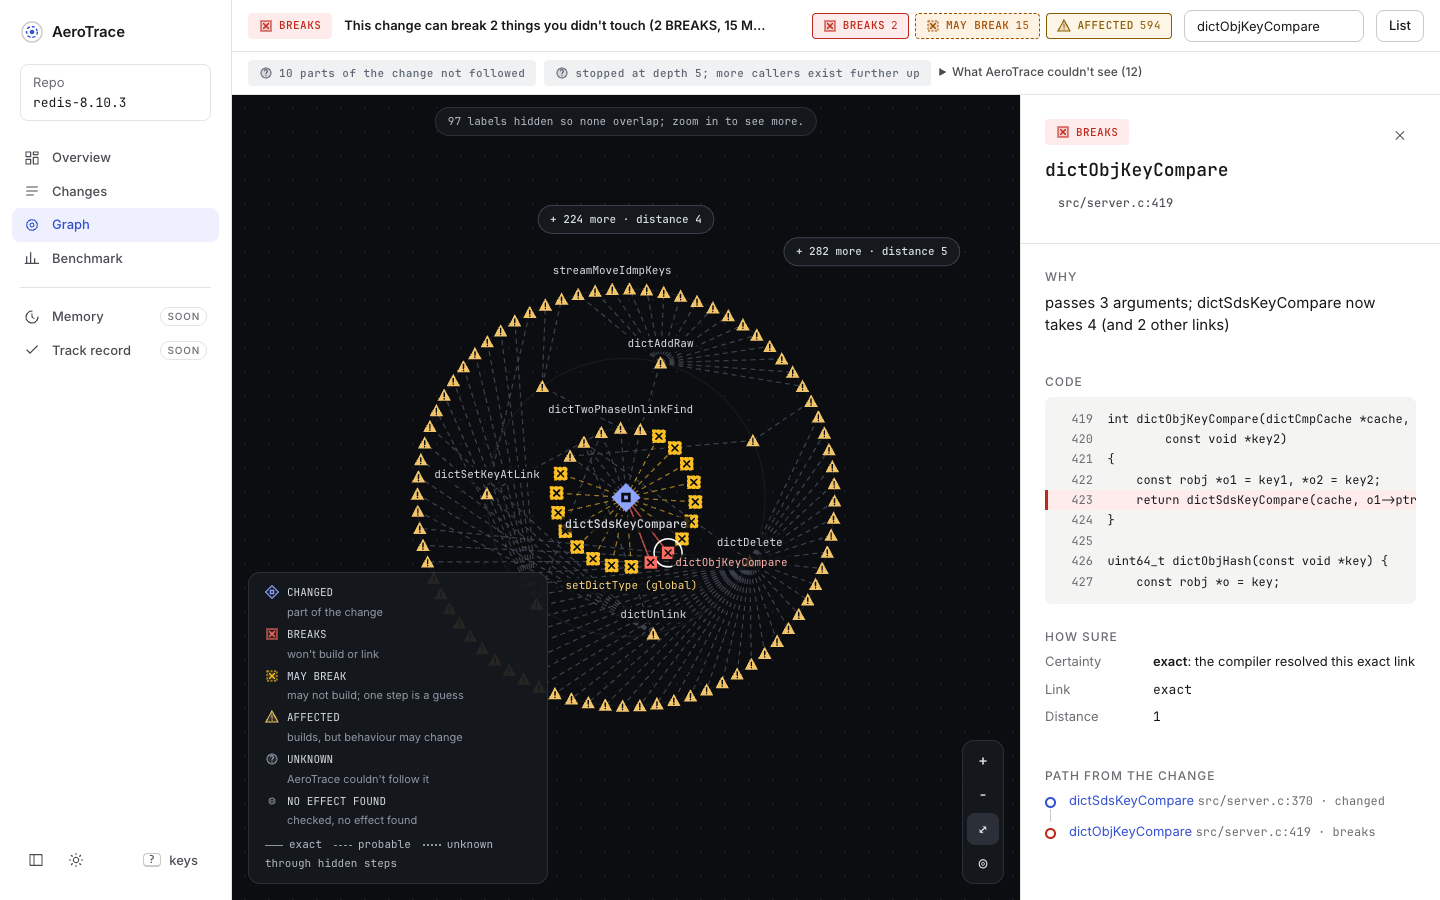
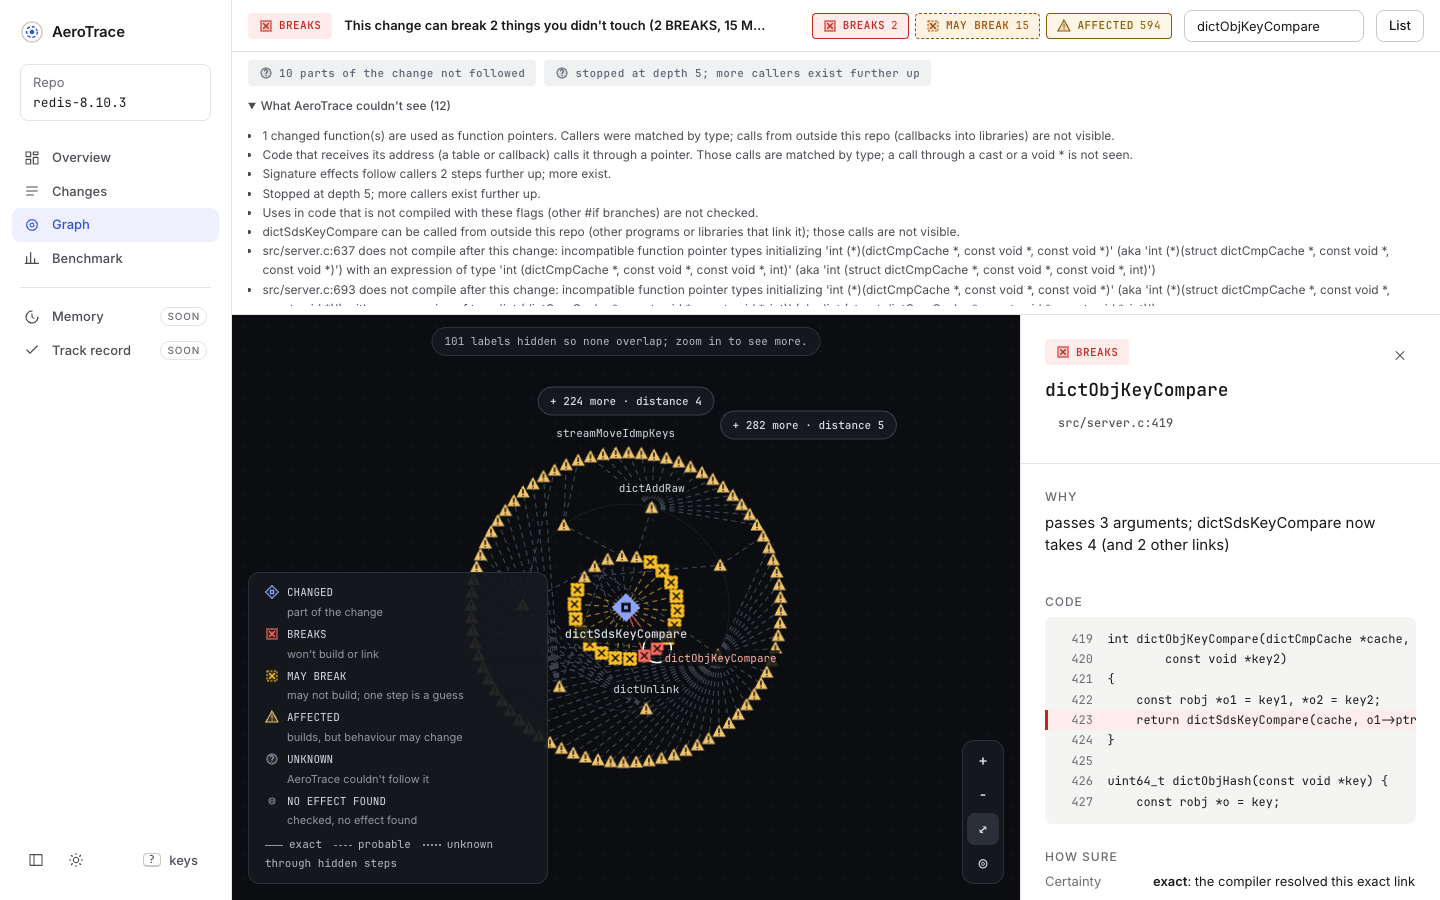
perf(ui): the graph pans and zooms at 60 fps with 5,000 nodes
- measured (bench/ui/perf.py, docs/design/dashboard/perf.json): 1,000 and 5,000 nodes, default view and
  every group on; first frame 53-109 ms; 59-61 fps during scripted pan and zoom on an M1 Pro
- the cost was dashing thousands of lines: off-screen lines are skipped, and over 600 dashed lines on
  screen are drawn solid and fainter, with a hint to zoom in to see which lines are probable
- shapes stamped from pre-painted images; cached label widths; full labels once pan or zoom settles;
  the dot grid is one pattern fill
- the blind-spot list opens when it has lines about this change; a forced label stays on the canvas

diff --git a/src/aerotrace/ui/web/graph.js b/src/aerotrace/ui/web/graph.js
@@ -45,6 +45,8 @@
       affected: v("--graph-affected"), unknown: v("--graph-unknown"), no_effect: v("--graph-no-effect"),
       dot: v("--graph-dot"), edge: v("--graph-edge"), label: v("--graph-label"), mono: v("--font-mono") };
     this.stats = { frames: 0, lastMs: 0, shown: 0, labels: 0, hiddenLabels: 0 };
+    this._widths = {};
+    this._moving = 0;
     window.__aerotraceGraph = this.stats;
     this._wire();
     this.layout();
@@ -126,6 +128,21 @@
     this.draw();
   };
 
+  // each status shape painted once into a small image, then stamped per node (cheap at thousands of nodes)
+  GraphView.prototype._sprite = function (shape, group, sc) {
+    var key = shape + "|" + group + "|" + sc.toFixed(2) + "|" + this.dpr;
+    this._sprites = this._sprites || {};
+    if (this._sprites[key]) return this._sprites[key];
+    var size = Math.ceil(32 * sc) + 4, cv = document.createElement("canvas");
+    cv.width = cv.height = Math.ceil(size * this.dpr);
+    var g = cv.getContext("2d"), c = this.col;
+    g.scale(this.dpr, this.dpr); g.translate(size / 2, size / 2); g.scale(sc, sc);
+    g.fillStyle = c[group]; g.fill(path2d(shape, 0));
+    if (group !== "no_effect") { g.strokeStyle = "#0b0d10"; g.lineWidth = 2.6; g.lineCap = "round"; g.stroke(path2d(shape, 1)); }
+    if (group === "may_break") { g.setLineDash([4, 3]); g.strokeStyle = c.may_break; g.lineWidth = 2; g.stroke(path2d(shape, 0)); }
+    return (this._sprites[key] = { img: cv, size: size });
+  };
+
   GraphView.prototype.toScreen = function (p) {
     return [this.w / 2 + this.view.x + p.x * this.view.s, this.h / 2 + this.view.y + p.y * this.view.s];
   };
@@ -152,8 +169,14 @@
     var w = this.w, h = this.h, s = this.view.s;
     g.setTransform(this.dpr, 0, 0, this.dpr, 0, 0);
     g.clearRect(0, 0, w, h);
-    g.fillStyle = c.dot;
-    for (var gx = 12; gx < w; gx += 24) for (var gy = 12; gy < h; gy += 24) g.fillRect(gx, gy, 1.5, 1.5);
+    if (!this._dots) {
+      var tile = document.createElement("canvas");
+      tile.width = tile.height = 24;
+      var tg = tile.getContext("2d");
+      tg.fillStyle = c.dot; tg.fillRect(12, 12, 1.5, 1.5);
+      this._dots = g.createPattern(tile, "repeat");
+    }
+    g.fillStyle = this._dots; g.fillRect(0, 0, w, h);
     var ids = Object.keys(this.pos);
     var scr = {};
     ids.forEach(function (id) { scr[id] = self.toScreen(self.pos[id]); });
@@ -174,18 +197,28 @@
       if (!p.n.ring) return;
       var a = self._anchor(p.n);
       if (!a) return;
+      var e0 = scr[a.p.n.id], e1 = scr[id];
+      if (Math.max(e0[0], e1[0]) < 0 || Math.min(e0[0], e1[0]) > w || Math.max(e0[1], e1[1]) < 0 || Math.min(e0[1], e1[1]) > h) return;  // off screen
       var colour = p.n.group === "breaks" ? "rgba(255,107,94,0.65)" : p.n.group === "may_break" ? "rgba(251,191,36,0.6)" : c.edge;
       var key = a.skipped ? "skip" : colour + "|" + (STYLE[p.n.certainty] ? p.n.certainty : "unknown");
       (batches[key] = batches[key] || { colour: a.skipped ? "rgba(140,150,165,0.35)" : colour,
         dash: a.skipped ? [1, 4] : STYLE[p.n.certainty] || STYLE.unknown, list: [] }).list.push([scr[a.p.n.id], scr[id]]);
     });
+    // Dashing thousands of lines is slow and unreadable at overview zoom: over DASH_MAX dashed lines on
+    // screen they are drawn solid and fainter, and the hint says to zoom in to see which are probable.
+    var dashed = 0;
+    Object.keys(batches).forEach(function (k) { if (batches[k].dash.length) dashed += batches[k].list.length; });
+    var simplify = dashed > 600;
+    this.stats.dashesSimplified = simplify;
     Object.keys(batches).sort().forEach(function (k) {
       var b = batches[k];
       g.beginPath();
       b.list.forEach(function (e) { g.moveTo(e[0][0], e[0][1]); g.lineTo(e[1][0], e[1][1]); });
-      g.strokeStyle = b.colour; g.setLineDash(b.dash); g.lineWidth = /255,107/.test(b.colour) ? 1.6 : 1.2; g.stroke();
+      g.globalAlpha = simplify && b.dash.length ? 0.45 : 1;
+      g.strokeStyle = b.colour; g.setLineDash(simplify ? [] : b.dash); g.lineWidth = /255,107/.test(b.colour) ? 1.6 : 1.2; g.stroke();
     });
     g.setLineDash([]);
+    g.globalAlpha = 1;
     // nodes
     var many = ids.length > 1500 && s < 0.6;
     var occupied = new Grid(32), hits = new Grid(24);
@@ -198,11 +231,8 @@
       g.fillStyle = c[n.group];
       if (many) { g.fillRect(q[0] - 3, q[1] - 3, 6, 6); }
       else {
-        g.save(); g.translate(q[0], q[1]); g.scale(sc, sc);
-        g.fill(path2d(shape, 0));
-        if (n.group !== "no_effect") { g.strokeStyle = "#0b0d10"; g.lineWidth = 2.6; g.lineCap = "round"; g.stroke(path2d(shape, 1)); }
-        if (n.group === "may_break") { g.setLineDash([4, 3]); g.strokeStyle = c.may_break; g.lineWidth = 2; g.stroke(path2d(n.group, 0)); g.setLineDash([]); }
-        g.restore();
+        var sp = self._sprite(shape, n.group, sc);
+        g.drawImage(sp.img, q[0] - sp.size / 2, q[1] - sp.size / 2, sp.size, sp.size);
       }
       var rr = 14 * sc + 2;
       occupied.add({ x: q[0] - rr, y: q[1] - rr, w: 2 * rr, h: 2 * rr });
@@ -236,14 +266,17 @@
       return (b.n.id === self.selected) - (a.n.id === self.selected) || (b.n.id === self.hover) - (a.n.id === self.hover) ||
         PRIO[a.n.group] - PRIO[b.n.group] || a.n.ring - b.n.ring || a.n.order - b.n.order;
     });
-    var placed = 0, hidden = 0, budget = 600, rects = [];
+    var moving = performance.now() - this._moving < 150;
+    var placed = 0, hidden = 0, budget = moving ? 80 : 600, rects = [];
     want.forEach(function (p) {
       var n = p.n, q = scr[n.id];
       var must = n.id === self.selected || n.id === self.hover || n.group === "changed";
       if (!must && (budget-- <= 0 || (zoomedOut && PRIO[n.group] > 2))) { hidden++; return; }
       g.font = (n.group === "changed" ? "600 12px " : "11px ") + c.mono;
       var label = n.name.length > 48 ? n.name.slice(0, 47) + "…" : n.name;
-      var tw = g.measureText(label).width, th = 14, o = n.group === "changed" ? 20 : 12;
+      var wkey = (n.group === "changed" ? "b" : "r") + label, tw = self._widths[wkey];
+      if (tw === undefined) tw = self._widths[wkey] = g.measureText(label).width;
+      var th = 14, o = n.group === "changed" ? 20 : 12;
       var ca = Math.cos(p.a), sa = Math.sin(p.a);
       var cands = [[q[0] + ca * o + (ca >= 0 ? 0 : -tw), q[1] + sa * o - th / 2], [q[0] + o, q[1] - th / 2], [q[0] - o - tw, q[1] - th / 2],
         [q[0] - tw / 2, q[1] - o - th], [q[0] - tw / 2, q[1] + o], [q[0] + o * 0.7, q[1] - o * 0.7 - th], [q[0] + o * 0.7, q[1] + o * 0.7],
@@ -256,7 +289,11 @@
         if (!occupied.hits(r)) spot = r;
       }
       var forced = false;
-      if (!spot && must) { spot = { x: cands[0][0] - 3, y: cands[0][1] - 1, w: tw + 6, h: th + 2 }; forced = true; }
+      if (!spot && must) {  // always shown, kept inside the canvas
+        var fx = Math.max(4, Math.min(w - tw - 10, cands[0][0] - 3)), fy = Math.max(4, Math.min(h - th - 6, cands[0][1] - 1));
+        spot = { x: fx, y: fy, w: tw + 6, h: th + 2 };
+        forced = true;
+      }
       if (!spot) { hidden++; return; }
       rects.push({ x: spot.x, y: spot.y, w: spot.w, h: spot.h, forced: forced });
       occupied.add(spot);
@@ -269,8 +306,11 @@
     this.stats.labels = placed;
     this.stats.labelRects = rects;
     this.stats.hiddenLabels = hidden;
+    if (moving && !this._settle) this._settle = setTimeout(function () { self._settle = 0; self.draw(); }, 170);
     this.stats.frames++;
     this.stats.lastMs = performance.now() - t0;
+    this.stats.totalMs = (this.stats.totalMs || 0) + this.stats.lastMs;
+    this.stats.maxMs = Math.max(this.stats.maxMs || 0, this.stats.lastMs);
     if (this.opts.onDrawn) this.opts.onDrawn(this);
   };
 
@@ -290,7 +330,7 @@
       if (down) {
         var dx = e.clientX - down.x, dy = e.clientY - down.y;
         if (Math.abs(dx) + Math.abs(dy) > 3) moved = true;
-        if (moved) { self.view.x = down.vx + dx; self.view.y = down.vy + dy; self.draw(); }
+        if (moved) { self.view.x = down.vx + dx; self.view.y = down.vy + dy; self._moving = performance.now(); self.draw(); }
         return;
       }
       var r = cv.getBoundingClientRect(), hit = self.nodeAt(e.clientX - r.left, e.clientY - r.top);
@@ -313,6 +353,7 @@
       self.view.x = mx - ((mx - self.view.x) * s1) / s0;
       self.view.y = my - ((my - self.view.y) * s1) / s0;
       self.view.s = s1;
+      self._moving = performance.now();
       self.draw();
     }, { passive: false });
     this._onResize = function () { self.resize(); self.draw(); };

diff --git a/src/aerotrace/ui/web/app.js b/src/aerotrace/ui/web/app.js
@@ -281,6 +281,7 @@
         var ul = h("ul", { cls: "blind" });
         d.blind_spots.forEach(function (b) { ul.appendChild(h("li", { cls: b.scope === "change" ? "" : "dim", text: b.text })); });
         seeNot = h("details", { cls: "gblind" }, h("summary", { text: "What AeroTrace couldn't see (" + d.blind_spots.length + ")" }), ul);
+        if (d.blind_spots.some(function (b) { return b.scope === "change"; })) seeNot.setAttribute("open", "");  // about this change: shown
       }
       var top = notes.length || seeNot ? h("div", { cls: "gnotes" }, notes, seeNot) : null;
       main.replaceChildren(h("div", { cls: "gwrap" }, bar, top, body2));
@@ -293,6 +294,7 @@
         if (v.focus) parts.push("Focus: the selected node, its path and what depends on it. Press f to leave.");
         else if (off) parts.push(n(off) + " nodes are in groups that are off. Turn a chip on to show them.");
         if (v.stats.hiddenLabels) parts.push(plural(v.stats.hiddenLabels, "label") + " hidden so none overlap; zoom in to see more.");
+        if (v.stats.dashesSimplified) parts.push("Zoom in to see which lines are probable (dashed) or unknown (dotted).");
         hint.textContent = parts.join("  ·  ");
         hint.hidden = !parts.length;
       }

diff --git a/bench/ui/perf.py b/bench/ui/perf.py
@@ -1,0 +1,100 @@
+"""Measure the dashboard graph: time to first frame and frame rate while panning and zooming (dev-only).
+
+Usage: uv run --with playwright python bench/ui/perf.py [out.json]
+Serves synthetic checks (tests/ui/samples.py big(n), 1,000 and 5,000 nodes) from a temp folder on
+127.0.0.1 and drives Chrome. For each size it measures two views: the default (BREAKS and MAY BREAK
+only) and every group switched on. Numbers are from this machine; they are printed and saved as JSON.
+"""
+
+from __future__ import annotations
+
+import json
+import platform
+import subprocess
+import sys
+import tempfile
+import threading
+from pathlib import Path
+
+ROOT = Path(__file__).resolve().parents[2]
+sys.path.insert(0, str(ROOT / "tests" / "ui"))
+import samples  # noqa: E402
+from playwright.sync_api import sync_playwright  # noqa: E402
+
+from aerotrace.index import store  # noqa: E402
+from aerotrace.ui import api, server  # noqa: E402
+
+SIZES = (1000, 5000)
+PAN_ZOOM = """async () => {
+  const cv = document.querySelector('.stage canvas'), r = cv.getBoundingClientRect();
+  let frames = 0, run = true;
+  const g0 = window.__aerotraceGraph, f0 = g0.frames, ms0 = g0.totalMs || 0; g0.maxMs = 0;
+  const tick = () => { frames++; if (run) requestAnimationFrame(tick); };
+  requestAnimationFrame(tick);
+  const t0 = performance.now();
+  for (let i = 0; i < 120; i++) {   // 2 s of input at 60 events a second: wheel zoom, then drag pan
+    const x = r.left + r.width / 2 + Math.sin(i / 9) * 120, y = r.top + r.height / 2 + Math.cos(i / 7) * 80;
+    if (i % 2) cv.dispatchEvent(new WheelEvent('wheel', { clientX: x, clientY: y, deltaY: (i % 40 < 20 ? -40 : 40), bubbles: true, cancelable: true }));
+    else {
+      cv.dispatchEvent(new PointerEvent('pointerdown', { clientX: x, clientY: y, pointerId: 1, bubbles: true }));
+      cv.dispatchEvent(new PointerEvent('pointermove', { clientX: x + 40, clientY: y + 25, pointerId: 1, bubbles: true }));
+      cv.dispatchEvent(new PointerEvent('pointerup', { clientX: x + 40, clientY: y + 25, pointerId: 1, bubbles: true }));
+    }
+    await new Promise(res => setTimeout(res, 1000 / 60));
+  }
+  run = false;
+  const secs = (performance.now() - t0) / 1000;
+  const g1 = window.__aerotraceGraph, draws = g1.frames - f0;
+  return { fps: frames / secs, drawMs: draws ? (g1.totalMs - ms0) / draws : 0, maxMs: g1.maxMs, draws: draws, shown: g1.shown };
+}"""
+
+
+def main() -> None:
+    out = Path(sys.argv[1]) if len(sys.argv) > 1 else None
+    results = []
+    with tempfile.TemporaryDirectory() as tmp:
+        root = Path(tmp)
+        d = store.index_dir(root) / api.CHECKS_DIR
+        d.mkdir(parents=True)
+        for n in SIZES:
+            (d / f"{n:04d}-aaaa{n:04d}.json").write_text(json.dumps(samples.big(n)))
+        srv = server.DashboardServer(root)
+        threading.Thread(target=srv.serve_forever, daemon=True).start()
+        with sync_playwright() as p:
+            b = p.chromium.launch(channel="chrome")
+            for n in SIZES:
+                for view in ("default", "all groups"):
+                    ctx = b.new_context(viewport={"width": 1440, "height": 900})
+                    pg = ctx.new_page()
+                    pg.goto(srv.url)
+                    pg.wait_for_selector("#main .page, #main .state")
+                    t = pg.evaluate("() => performance.now()")
+                    pg.evaluate(f"() => location.hash = '#/graph/{n:04d}-aaaa{n:04d}'")
+                    pg.wait_for_function(
+                        "() => window.__aerotraceGraph && window.__aerotraceGraph.frames > 0", timeout=60000
+                    )
+                    first = pg.evaluate("() => performance.now()") - t
+                    if view == "all groups":
+                        for g in ("affected", "unknown", "no_effect"):
+                            if pg.query_selector(f'[data-group="{g}"]'):
+                                pg.click(f'[data-group="{g}"]')
+                        pg.wait_for_timeout(300)
+                    m = pg.evaluate(PAN_ZOOM)
+                    results.append({"nodes": n, "view": view, "first_frame_ms": round(first), "fps": round(m["fps"], 1),
+                                    "draw_ms_avg": round(m["drawMs"], 1), "draw_ms_max": round(m["maxMs"], 1), "redraws": m["draws"], "drawn": m["shown"]})  # fmt: skip
+                    print(results[-1])
+                    ctx.close()
+            b.close()
+        srv.shutdown()
+        srv.server_close()
+    cpu = subprocess.run(
+        ["sysctl", "-n", "machdep.cpu.brand_string"], capture_output=True, text=True
+    ).stdout.strip()
+    doc = {"machine": f"{cpu or platform.processor()}, {platform.system()} {platform.mac_ver()[0]}", "browser": "Chrome",
+           "results": results}  # fmt: skip
+    if out:
+        out.write_text(json.dumps(doc, indent=1) + "\n")
+
+
+if __name__ == "__main__":
+    main()
